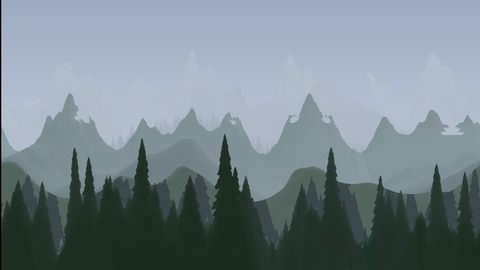
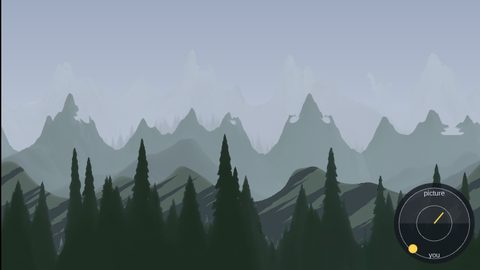
shadow lab: suns that cast down from above, each tree's shadow laid on the ground from its foot, a dial to drag them (r425)
Simon on r425 (16 Oct): "it acts as if there was a wall behind the
trees and the sun was angled at 60 degrees ... make sure the lab allows
to move the light source ... think about how shadows work". The first
lab moved the whole silhouette by a free 2D angle, its default from
below on the left: a shadow on a wall standing right behind the trees,
lit by a light no sun can be.

Each light is now a sun: a side round the viewer (behind you, left,
right, ahead) and a height. A tree's shadow starts at its foot and lies
on the ground away from the sun, cot(height) long a unit of tree: the
pines' pass is sheared about their foot line through the batch's
transform, sideways by the sun's side, up the screen by its run into the
picture times "rise" (how the ground climbs into the picture). A sun
ahead casts toward you, on nothing behind the pines. A dial over B's
corner (seen from above) drags the suns and sets their sliders. The
"shadow moves with: the pines / the hills" choice Simon asked for (C)
draws the shadow from a second heart at the hills' speed.

The pass tiles across a camera wider by whole pines tiles (the reader
tiles from the view's left edge): with an identity shear B matches A
outside the dial. tiles.py shoots the reader's canvas by its id, now
that the stage holds a second one.

Persona: Mira Ralax
Session: mira-fedora-parallax-217

diff --git a/core/browser-test/webapp/shadow-lab.html b/core/browser-test/webapp/shadow-lab.html
@@ -5,6 +5,13 @@
 	<meta name="viewport" content="width=device-width, initial-scale=1">
 	<title>Shadow lab (r425): should a layer cast its shadow on the layer behind?</title>
 	<link rel="stylesheet" href="lab.css">
+	<style>
+	/* The sun dial (r425): the suns seen from above, over B's bottom right corner. */
+	/* Over the kit's .lab-stage canvas, which stretches the reader's canvas to the stage. */
+	.lab-stage canvas.sun-dial { position: absolute; right: 8px; bottom: 8px; width: 132px !important; height: 132px !important;
+		cursor: grab; touch-action: none; border-radius: 50%; }
+	@media (max-width: 719px) { .lab-stage canvas.sun-dial { width: 52px !important; height: 52px !important; right: 3px; bottom: 3px; } }
+	</style>
 	<!-- ShadowLab (r425): r365's AI forest page, its pines casting their shadow on the hills behind them, from one light or two. -->
 	<script type="text/javascript" src="browsertests/browsertests.nocache.js"></script>
 </head>
@@ -18,6 +25,7 @@
 	<div id="shadow-lab" class="lab-stage lab-row">
 		<div id="embed-browsertests"></div>
 		<div id="shadow-labels" class="lab-labels"></div>
+		<canvas id="shadow-dial" class="sun-dial" width="132" height="132" title="the suns, seen from above: you at the bottom, the picture at the top, overhead in the middle, the horizon at the rim. Drag a sun."></canvas>
 	</div>
 	<div id="shadow-controls" class="lab-controls"></div>
 	<textarea id="shadow-copy-json" class="lab-copy-json" hidden readonly></textarea>
@@ -25,13 +33,71 @@
 		<summary>What this lab shows</summary>
 		<p id="shadow-about">r365's AI forest page (the hills lab's, its hills as they ship), drawn twice by the real
 	reader: <b>A</b> as painted, <b>B</b> with the pines casting their shadow on the hills just behind them, and on
-	nothing else: not on the sky, not on the layers further back. The shadow is the pines' own layer, moved away from
-	the light by the shadow's length, darkened and softened, so it scrolls with the pines as the camera moves. A second
-	light casts a second shadow; where both fall, it is darker. A lab, not an effect yet: what ships, if any of it,
-	waits for your tests. The view without the pines shows the shadow's shape alone. Copy settings gives every control
-	as JSON for the card.</p>
+	nothing else: not on the sky, not on the layers further back. Each light is a <b>sun</b>: a side round you (behind
+	you, on your left or right, or ahead in the picture) and a height over the horizon, set by its sliders or by
+	dragging it on the dial over B's corner (seen from above: you at the bottom, the picture at the top, overhead in the
+	middle, the horizon at the rim; the line from the middle shows where its shadows point). Sunlight comes from above,
+	so a shadow lands below and away from the sun: on hills <b>distance</b> behind the pines, a low sun from behind
+	your left lays it long to the right, a high one drops it behind the trees. A sun ahead casts toward you, onto
+	nothing behind the pines. As the camera scrolls, the shadow <b>moves with</b> the pines (it stays under its tree) or
+	with the hills (as the world would: the trees, nearer, slide past it). Where two suns' shadows meet, it is darker. A
+	lab, not an effect yet: what ships, if any of it, waits for your tests. The view without the pines shows the
+	shadow's shape alone. Copy settings gives every control as JSON for the card.</p>
 	</details>
 	<script src="lab.js"></script>
+	<script>
+	// The sun dial: draws the suns from their sliders; a drag moves the nearer one and sets its sliders.
+	(function () {
+		var dial = document.getElementById('shadow-dial'), g = dial.getContext('2d'), R = 56, C = 66, held = null;
+		function input(key) { return document.querySelector('input[data-key=' + key + ']'); }
+		function on2() { var s = document.querySelector('select[data-key=sun2On]'); return s && s.selectedIndex === 1; }
+		function at(n) {
+			var a = +input('sun' + n + 'Side').value * Math.PI / 180, r = R * Math.cos(+input('sun' + n + 'Height').value * Math.PI / 180);
+			return { x: C + r * Math.sin(a), y: C + r * Math.cos(a), a: a };
+		}
+		function draw() {
+			g.clearRect(0, 0, 132, 132);
+			g.fillStyle = 'rgba(20,24,32,0.82)'; g.beginPath(); g.arc(C, C, 64, 0, 2 * Math.PI); g.fill();
+			// Ahead, in the picture: a sun there casts toward you, nothing on the hills.
+			g.fillStyle = 'rgba(255,255,255,0.08)'; g.beginPath(); g.arc(C, C, R, Math.PI, 2 * Math.PI); g.fill();
+			g.strokeStyle = 'rgba(255,255,255,0.45)'; g.lineWidth = 1;
+			g.beginPath(); g.arc(C, C, R, 0, 2 * Math.PI); g.stroke();
+			g.beginPath(); g.arc(C, C, R / 2, 0, 2 * Math.PI); g.stroke();
+			g.fillStyle = '#cfd6e2'; g.font = '11px sans-serif'; g.textAlign = 'center';
+			g.fillText('picture', C, 22); g.fillText('you', C, 120);
+			[1, 2].forEach(function (n) {
+				if (!input('sun' + n + 'Side') || (n === 2 && !on2())) return;
+				var p = at(n);
+				g.strokeStyle = n === 1 ? '#ffd34d' : '#ff9a4d'; g.lineWidth = 2;
+				g.beginPath(); g.moveTo(C, C); g.lineTo(C - 22 * Math.sin(p.a), C - 22 * Math.cos(p.a)); g.stroke();
+				g.fillStyle = g.strokeStyle; g.beginPath(); g.arc(p.x, p.y, 7, 0, 2 * Math.PI); g.fill();
+			});
+			requestAnimationFrame(draw);
+		}
+		function point(e) {
+			var b = dial.getBoundingClientRect(), k = 132 / b.width;
+			return { x: (e.clientX - b.left) * k - C, y: (e.clientY - b.top) * k - C };
+		}
+		function set(n, q) {
+			var r = Math.min(R, Math.hypot(q.x, q.y)), side = Math.round(Math.atan2(q.x, q.y) * 180 / Math.PI / 5) * 5;
+			var height = Math.round(Math.acos(r / R) * 180 / Math.PI);
+			input('sun' + n + 'Side').value = side;
+			input('sun' + n + 'Height').value = Math.max(5, Math.min(85, height));
+			input('sun' + n + 'Side').dispatchEvent(new Event('input', { bubbles: true }));
+		}
+		dial.addEventListener('pointerdown', function (e) {
+			var q = point(e), best = 1;
+			if (on2()) {
+				var p1 = at(1), p2 = at(2);
+				best = Math.hypot(q.x + C - p2.x, q.y + C - p2.y) < Math.hypot(q.x + C - p1.x, q.y + C - p1.y) ? 2 : 1;
+			}
+			held = best; dial.setPointerCapture(e.pointerId); set(held, q);
+		});
+		dial.addEventListener('pointermove', function (e) { if (held) set(held, point(e)); });
+		dial.addEventListener('pointerup', function () { held = null; });
+		var wait = setInterval(function () { if (input('sun1Side')) { clearInterval(wait); draw(); } }, 100);
+	})();
+	</script>
 	<script>
 	labCopy('shadow', function () {
 		return {

diff --git a/core/browser-test/launcher/jks/tools2d/parallax/browsertest/ShadowLab.java b/core/browser-test/launcher/jks/tools2d/parallax/browsertest/ShadowLab.java
@@ -8,6 +8,7 @@ import com.badlogic.gdx.graphics.OrthographicCamera;
 import com.badlogic.gdx.graphics.g2d.Batch;
 import com.badlogic.gdx.graphics.g2d.SpriteBatch;
 import com.badlogic.gdx.graphics.glutils.ShaderProgram;
+import com.badlogic.gdx.math.Matrix4;
 import com.google.gwt.dom.client.Document;
 import com.google.gwt.dom.client.Element;
 import com.google.gwt.dom.client.InputElement;
@@ -29,9 +30,20 @@ import jks.tools2d.parallax.pages.WholePage_Model;
  * <p>
  * B is drawn in passes, each by a heart holding the whole page with the layers it does not draw pushed far under the
  * view (so the page's front, and its fog, stay the page's): the sky and the layers up to the hills; the hills again,
- * into the stencil only, where they are opaque; the pines once per light, moved away from it by the shadow's length,
- * dark, softened, where the stencil is set; the pines themselves on top. The shadow is the pines' own layer, so it
- * scrolls with them. A lab's passes, not an effect: what ships, if anything, waits for Simon's tests (no
+ * into the stencil only, where they are opaque; the pines once per light, laid on the ground away from it, dark,
+ * softened, where the stencil is set; the pines themselves on top. The shadow is the pines' own layer, scrolled
+ * with them, or at the hills' speed (a second heart), as the world would have it.
+ * <p>
+ * Each light is a sun (r425, Simon: "it acts as if there was a wall behind the trees and the sun was angled at 60
+ * degrees"; the first lab moved the shadow by a free 2D angle, its default from below on the left, which no sun is):
+ * a side, round the viewer (0 behind you, 90 on your right, 180 ahead in the picture), and a height over the horizon.
+ * A shadow starts at the tree's foot and lies on the ground away from the sun, as long as the tree is tall over the
+ * tangent of the sun's height ({@link #shear}): a point h over the pines' foot line goes sideways by h times the sun's
+ * sideways run, and up the screen by h times its run into the picture, times {@code rise}, how far up the screen the
+ * ground climbs for a unit it runs into the picture (low for flat ground seen low, more where the hills rise behind).
+ * The moved silhouette the first lab drew (r425's b52a23a) was a shadow on a wall standing right behind the trees. A
+ * sun behind you lays the shadows up into the picture, onto the hills, long when it is low; a sun ahead lays them
+ * toward you, onto nothing behind the pines. A lab's passes, not an effect: what ships, if anything, waits for Simon's tests (no
  * Enum_ShaderEffect, no stored field). Opened with shadow-lab.html: tools/shadow-lab.sh.
  * <p>
  * {@code &clip=1}: nothing moves by itself, {@code window.shadowLabAct(seconds)} steps every heart at 1/60 s.
@@ -56,14 +68,21 @@ public class ShadowLab extends ApplicationAdapter implements LabKit.Clip
 	static final String[] VIEWS = { "the page", "without the pines" };
 	static final String[] OFF_ON = { "off", "on" };
 
-	/** A: the page as painted. B's passes: the back, the stencil, the shadows, the front. */
-	static final int PAINTED = 0, BACK = 1, MASK = 2, SHADOW = 3, FRONT = 4;
-	private final Parallax_Heart[] hearts = new Parallax_Heart[5];
+	static final String[] FOLLOWS = { "the pines", "the hills" };
+
+	/** A: the page as painted. B's passes: the back, the stencil, the shadows (at the pines' speed or the hills'), the front. */
+	static final int PAINTED = 0, BACK = 1, MASK = 2, SHADOW = 3, SHADOW_ON_HILLS = 4, FRONT = 5;
+	private final Parallax_Heart[] hearts = new Parallax_Heart[6];
 	private OrthographicCamera camera;
 	private SpriteBatch batch;
 	private ShaderProgram mask, shadow;
-	private SelectElement view, second;
-	private InputElement scroll, from1, from2, length, softness, darkness;
+	private SelectElement view, second, follows;
+	private InputElement scroll, side1, height1, side2, height2, rise, softness, darkness;
+	/** The shadow pass's shear, and the camera it tiles the pines by: wider, so a shadow laid far sideways is all drawn. */
+	private final Matrix4 sheared = new Matrix4(), straight = new Matrix4();
+	private OrthographicCamera wide;
+	/** How far a shadow may run sideways, world units: the wide camera's margin, at least. */
+	static final float REACH = 60;
 	private Element readout;
 	private boolean clip;
 	/** What the pines' layer in each heart is: what the shadow pass moves, what the view hides. */
@@ -88,6 +107,12 @@ public class ShadowLab extends ApplicationAdapter implements LabKit.Clip
 			for (int k = 0; k < page.pageModel.pageList.size(); k++)
 			{
 				boolean drawn = i == PAINTED || i == BACK ? k != PINES : i == MASK ? k == HILLS : k == PINES;
+				// On the hills, the shadow scrolls as they do: the pines' image at the hills' speed.
+				if (i == SHADOW_ON_HILLS && k == PINES)
+				{
+					page.pageModel.pageList.get(k).parallaxScalingSpeedX = page.pageModel.pageList.get(HILLS).parallaxScalingSpeedX;
+					page.pageModel.pageList.get(k).parallaxScalingSpeedY = page.pageModel.pageList.get(HILLS).parallaxScalingSpeedY;
+				}
 				if (i == PAINTED)
 					drawn = true;
 				if (!drawn)
@@ -99,9 +124,13 @@ public class ShadowLab extends ApplicationAdapter implements LabKit.Clip
 				backPage = page;
 			pines[i] = hearts[i].parallaxReader.layers.get(PINES);
 			// The stencil's and the shadows' layers draw through the lab's shader, the batch's: no effect of the reader's.
-			if (i == MASK || i == SHADOW)
+			if (i == MASK || i == SHADOW || i == SHADOW_ON_HILLS)
 				hearts[i].parallaxReader.setLayerEffects(BATCH_SHADER);
 		}
+		// The reader tiles a layer from its view's left edge: widened by whole tiles on each side, the pines' tiles land
+		// where the camera's own view puts them.
+		float tile = pines[SHADOW].getTotalWidth();
+		wide = new OrthographicCamera(WORLD_WIDTH + 2 * tile * (float) Math.ceil(REACH / tile), WORLD_HEIGHT);
 		buildControls();
 		if (clip)
 			LabKit.exportClip("shadowLab", this);
@@ -126,13 +155,16 @@ public class ShadowLab extends ApplicationAdapter implements LabKit.Clip
 		LabControls.panelLabels(document, "shadow-labels", "A: as painted", "B: the pines cast on the hills");
 		view = LabControls.stageChoice(document, "shadow-labels", "view", "view (the whole page; or without the pines, to see the shadow's shape alone)", VIEWS, 0);
 		Element controls = document.getElementById("shadow-controls");
-		scroll = LabControls.slider(document, controls, "cameraScroll", "camera scroll (units a second: the shadow moves with the pines)", -160, 160, 5, 20);
-		from1 = LabControls.slider(document, controls, "light1", "light 1 comes from (degrees around the view: 0 the right, 90 above, 180 the left, 270 below)", 0, 355, 5, 215);
-		second = LabControls.choice(document, controls, "light2On", "light 2 (a second light, its own shadow)", OFF_ON, 0);
-		from2 = LabControls.slider(document, controls, "light2", "light 2 comes from (degrees, as light 1)", 0, 355, 5, 325);
-		length = LabControls.slider(document, controls, "length", "shadow length (world units: a lower light casts it further)", 0, 4, 0.05f, 1);
-		softness = LabControls.slider(document, controls, "softness", "softness (the blur's radius, world units)", 0, 0.8f, 0.01f, 0.12f);
-		darkness = LabControls.slider(document, controls, "darkness", "darkness (0 no shadow, 1 black)", 0, 1, 0.05f, 0.45f);
+		scroll = LabControls.slider(document, controls, "cameraScroll", "camera scroll (units a second)", -160, 160, 5, 20);
+		side1 = LabControls.slider(document, controls, "sun1Side", "sun 1 side (degrees round you: 0 behind you, -90 on your left, 90 on your right, 180 ahead in the picture; or drag it on the dial)", -180, 180, 5, -40);
+		height1 = LabControls.slider(document, controls, "sun1Height", "sun 1 height (degrees over the horizon: low, long shadows)", 5, 85, 1, 20);
+		second = LabControls.choice(document, controls, "sun2On", "sun 2 (a second light, its own shadow)", OFF_ON, 0);
+		side2 = LabControls.slider(document, controls, "sun2Side", "sun 2 side (degrees, as sun 1)", -180, 180, 5, 35);
+		height2 = LabControls.slider(document, controls, "sun2Height", "sun 2 height (degrees, as sun 1)", 5, 85, 1, 30);
+		rise = LabControls.slider(document, controls, "rise", "rise (how far up the screen the ground climbs for a unit it runs into the picture: low for flat ground seen low, more where the hills rise behind)", 0.05f, 1.5f, 0.05f, 0.5f);
+		follows = LabControls.choice(document, controls, "follows", "shadow moves with (as the camera scrolls: the pines keep it under their trees; the hills, as the world would, so the trees slide off it)", FOLLOWS, 0);
+		softness = LabControls.slider(document, controls, "softness", "softness (the blur's radius, world units)", 0, 0.8f, 0.01f, 0.1f);
+		darkness = LabControls.slider(document, controls, "darkness", "darkness (0 no shadow, 1 black)", 0, 1, 0.05f, 0.5f);
 		readout = LabControls.readout(document, controls, "shadow-readout");
 	}
 
@@ -148,17 +180,38 @@ public class ShadowLab extends ApplicationAdapter implements LabKit.Clip
 			showing = v;
 		}
 		float sc = LabControls.read(scroll);
-		// Read even while off: a slider shows its value when read.
-		float second = LabControls.read(from2);
 		for (Parallax_Heart heart : hearts)
 			heart.screenSpeedConstantX = sc;
-		ParallaxLayer hills = hearts[BACK].parallaxReader.layers.get(HILLS);
-		float px = hills.getDrawnRegion().getRegionWidth() / (hills.getWidth() * hills.getPackedWidthRatio());
-		readout.setInnerText("the pines (l3) cast on the hills (l2) only: shadow " + round(LabControls.read(length)) + " units long ("
-				+ Math.round(LabControls.read(length) * px) + " px of the hills' image), blur " + Math.round(LabControls.read(softness) * px)
-				+ " px; light 1 from " + Math.round(LabControls.read(from1)) + " degrees"
-				+ (LabControls.read(this.second) == 1 ? ", light 2 from " + Math.round(second) + " degrees" : "")
+		// Read even while off: a slider shows its value when read.
+		float s2 = LabControls.read(side2), h2 = LabControls.read(height2);
+		LabControls.read(softness);
+		LabControls.read(darkness);
+		float r = LabControls.read(rise);
+		float[] k = shear(LabControls.read(side1), LabControls.read(height1), r);
+		readout.setInnerText("the pines (l3) cast on the hills (l2) only. Sun 1: a tree's shadow " + describe(k)
+				+ (LabControls.read(second) == 1 ? "; sun 2: " + describe(shear(s2, h2, r)) : "")
 				+ ". The world is " + round(WORLD_WIDTH) + " units wide.");
+	}
+
+	/**
+	 * A sun's shadow on the ground, {x, y}: where the shadow of a point a unit over a tree's foot lands, from that foot,
+	 * in world units on screen. The sun at {@code side} degrees round the viewer (0 behind, 90 on the right), {@code
+	 * height} over the horizon: its rays run down a unit for every cot(height) along the ground, away from it, of which
+	 * -sin(side) sideways and cos(side) into the picture, up the screen by {@code rise}. A sun ahead (cos(side) under 0)
+	 * lays it toward the viewer: y under 0, nothing on the hills.
+	 */
+	static float[] shear(float side, float height, float rise)
+	{
+		double a = Math.toRadians(side), run = 1 / Math.tan(Math.toRadians(height));
+		return new float[] { (float) (-Math.sin(a) * run), (float) (Math.cos(a) * run * rise) };
+	}
+
+	private static String describe(float[] k)
+	{
+		if (k[1] <= 0)
+			return "falls toward you, on nothing behind the pines";
+		return "runs " + round(Math.abs(k[0])) + " units " + (k[0] < 0 ? "left" : "right") + " and " + round(k[1])
+				+ " up the screen for every unit of the tree's height" + (k[1] > 1 ? " (above the treetops)" : " (under the treetops)");
 	}
 
 	private static float round(float value)
@@ -202,25 +255,32 @@ public class ShadowLab extends ApplicationAdapter implements LabKit.Clip
 		Gdx.gl.glColorMask(true, true, true, true);
 		Gdx.gl.glStencilFunc(GL20.GL_EQUAL, 1, 0xff);
 		Gdx.gl.glStencilOp(GL20.GL_KEEP, GL20.GL_KEEP, GL20.GL_KEEP);
-		shade(LabControls.read(from1));
+		shade(LabControls.read(side1), LabControls.read(height1));
 		if (LabControls.read(second) == 1)
-			shade(LabControls.read(from2));
+			shade(LabControls.read(side2), LabControls.read(height2));
 		Gdx.gl.glDisable(GL20.GL_STENCIL_TEST);
-		drawLayers(FRONT);
+		drawLayers(FRONT, camera);
 	}
 
-	/** One light's shadow: the shadow heart's pines moved away from the light by the shadow's length, and back. */
-	private void shade(float from)
+	/**
+	 * One sun's shadow: the shadow heart's pines sheared about their foot line, a point h over it moved by h times
+	 * {@link #shear}, through the batch's transform; tiled across the wide camera.
+	 */
+	private void shade(float side, float height)
 	{
-		float away = (float) Math.toRadians(from + 180), d = LabControls.read(length);
-		float dx = d * (float) Math.cos(away) * 100 / WORLD_WIDTH, dy = d * (float) Math.sin(away) * 100 / WORLD_HEIGHT;
-		ParallaxLayer caster = pines[SHADOW];
-		float x = caster.getDecalPercentX(), y = caster.getDecalPercentY();
-		caster.setDecalPercentX(x + dx);
-		caster.setDecalPercentY(y + dy);
-		draw(SHADOW, shadow);
-		caster.setDecalPercentX(x);
-		caster.setDecalPercentY(y);
+		float[] k = shear(side, height, LabControls.read(rise));
+		if (k[1] <= 0)
+			return;
+		int i = LabControls.read(follows) == 1 ? SHADOW_ON_HILLS : SHADOW;
+		float foot = camera.position.y - WORLD_HEIGHT / 2 + pines[i].getCurrentDistanceY();
+		sheared.idt();
+		sheared.val[Matrix4.M01] = k[0];
+		sheared.val[Matrix4.M03] = -k[0] * foot;
+		sheared.val[Matrix4.M11] = k[1];
+		sheared.val[Matrix4.M13] = foot - k[1] * foot;
+		batch.setTransformMatrix(sheared);
+		draw(i, shadow);
+		batch.setTransformMatrix(straight);
 	}
 
 	/** Heart {@code i}'s layers through {@code program}, set on the batch, the lab's numbers given it. */
@@ -240,18 +300,20 @@ public class ShadowLab extends ApplicationAdapter implements LabKit.Clip
 		Color fogColor = backPage.fogColor;
 		program.setUniformf(program.fetchUniformLocation("u_shadow", false), SHADOW_COLOR.r * (1 - fog) + fogColor.r * fog,
 				SHADOW_COLOR.g * (1 - fog) + fogColor.g * fog, SHADOW_COLOR.b * (1 - fog) + fogColor.b * fog, LabControls.read(darkness));
-		drawLayers(i);
+		drawLayers(i, i == SHADOW || i == SHADOW_ON_HILLS ? wide : camera);
 		batch.setShader(null);
 	}
 
-	/** Heart {@code i}'s layers alone, without its gradients. */
-	private void drawLayers(int i)
+	/** Heart {@code i}'s layers alone, without its gradients, tiled across {@code view}, drawn through the camera. */
+	private void drawLayers(int i, OrthographicCamera view)
 	{
 		camera.update();
+		view.position.set(camera.position);
+		view.update();
 		batch.setProjectionMatrix(camera.combined);
 		batch.enableBlending();
 		batch.begin();
-		hearts[i].parallaxReader.draw(camera, batch);
+		hearts[i].parallaxReader.draw(view, batch);
 		batch.end();
 	}
 

diff --git a/tools/r418-lab-tiles/tiles.py b/tools/r418-lab-tiles/tiles.py
@@ -38,7 +38,7 @@ with sync_playwright() as p:
         page.add_style_tag(content=".lab-labels { display: none; }")  # the panels' titles: the tile names the lab
         page.evaluate("new Promise(r => requestAnimationFrame(() => requestAnimationFrame(r)))")
         # One panel: a four-panel lab's top left, a two-panel lab's left, a one-panel lab whole; or the one named.
-        shot = Image.open(io.BytesIO(page.locator(".lab-stage canvas").screenshot())).convert("RGB")
+        shot = Image.open(io.BytesIO(page.locator("#embed-browsertests canvas").screenshot())).convert("RGB")
         page.close()
         x = (which[0] if which else 0) * shot.width // cols
         panel = shot.crop((x, 0, x + shot.width // cols, shot.height // rows))
